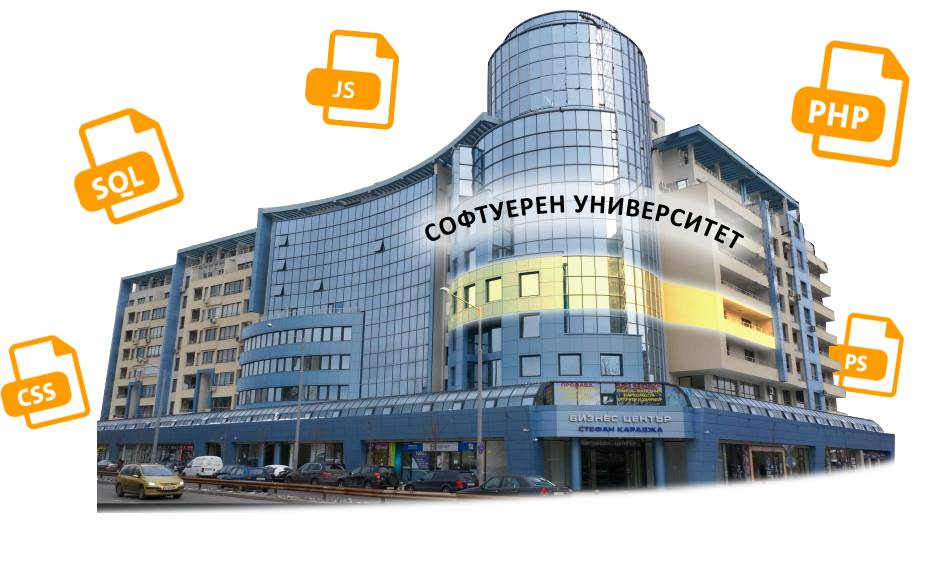
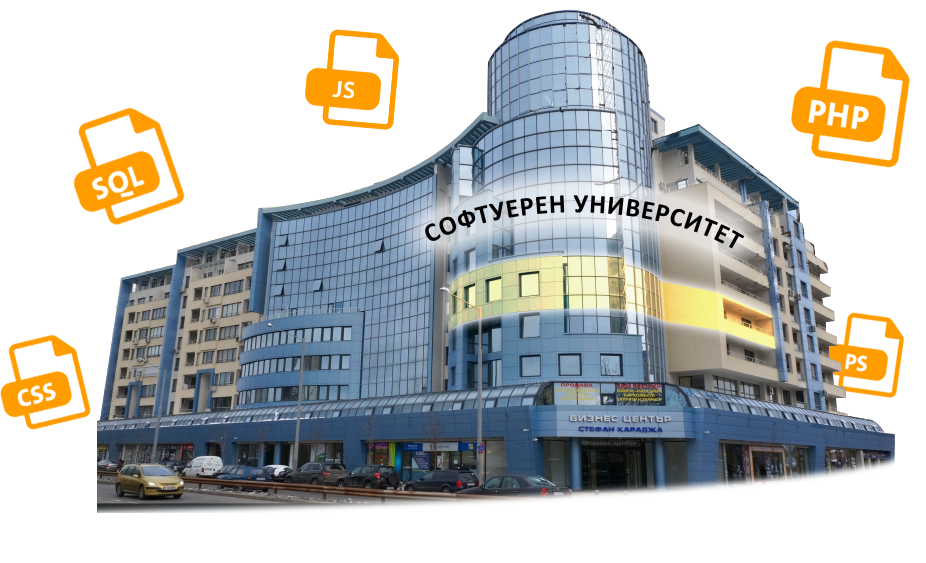
Partners Page updated picture size

diff --git a/university-partners.php b/university-partners.php
@@ -1,4 +1,4 @@
-<!DOCTYPE html>
+<!DOCTYPE html>
 <html>	
 	<head>
         <title>Универистети-партньори</title>
@@ -23,7 +23,7 @@
                 <h2>Софтуерен университет</h2>
                 <div>
                     <p>Адрес: Галактика Млечен път, Слънчева система, Планета Земя (онази синята)</p>
-					<span><a href="https://softuni.bg/">Software University</a></span>
+					<p>Сайт: <span><a href="https://softuni.bg/">Software University</a></span></p>
                     
                 </div>
 				
